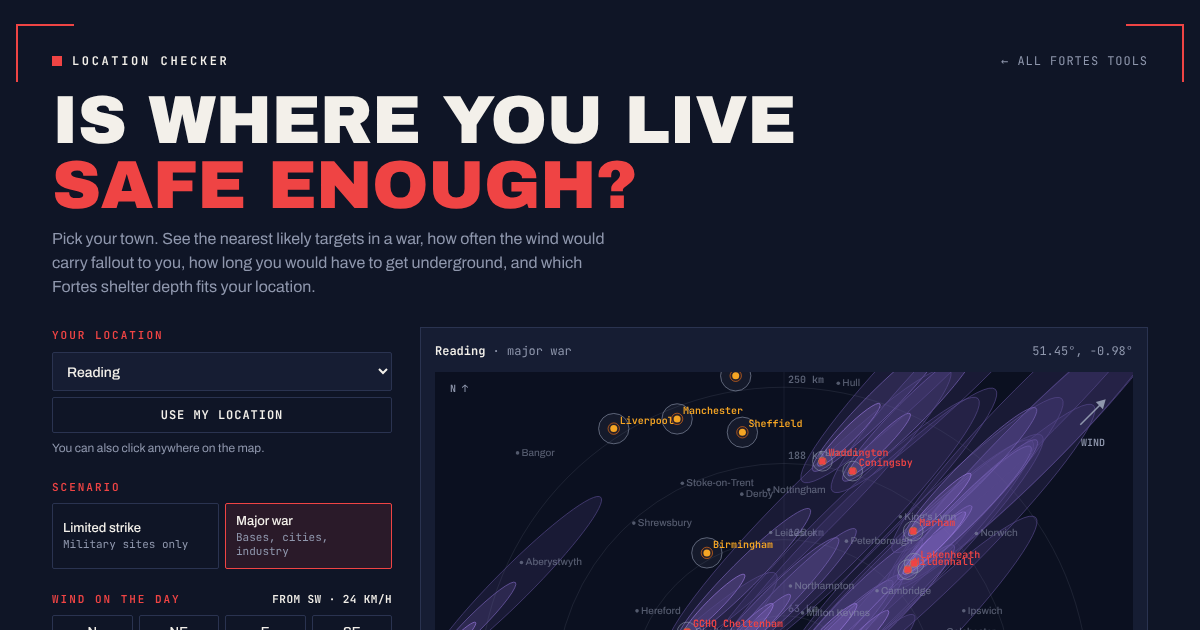
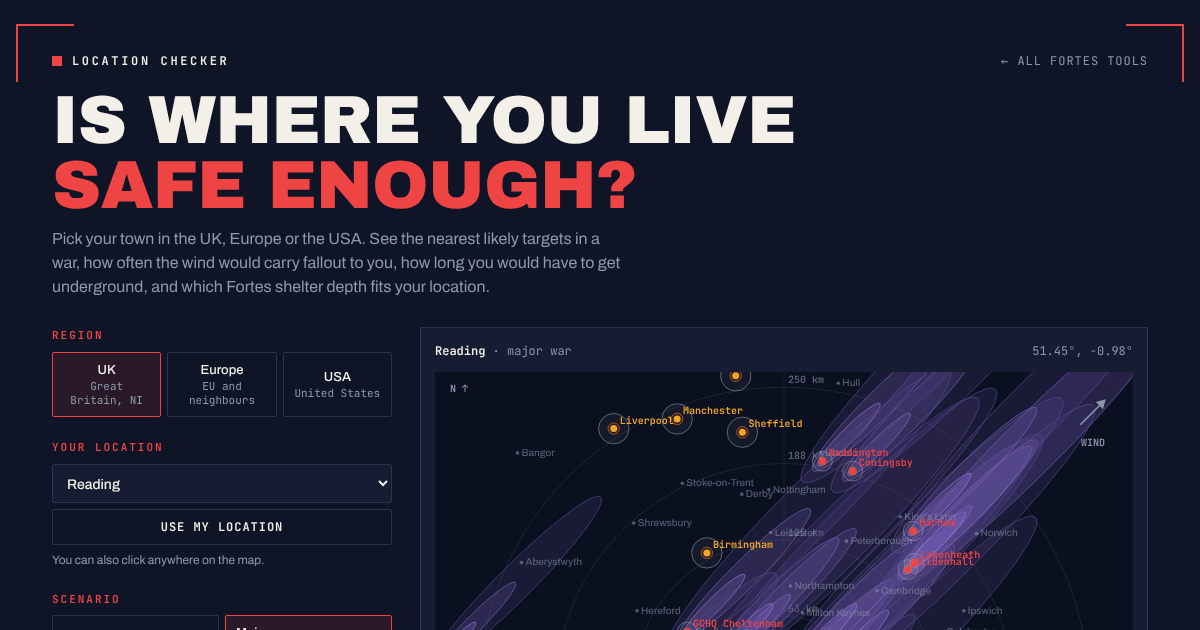
Make the location checker cover the UK, Europe and the USA
- Region picker with town lists for the UK, mainland Europe and Cyprus,
  and the USA; device location picks the region automatically
- Illustrative target sets for Europe and the USA alongside the UK, all
  evaluated together so places near borders see targets on both sides
- Regional wind climatology, phone alert system and distance units
  (miles in the USA)

Claude-Session: https://claude.ai/code/session_01LCX1sg3TJyySkDchaAnJDS

diff --git a/location-checker/index.html b/location-checker/index.html
@@ -4,9 +4,9 @@
 <meta charset="utf-8">
 <meta name="viewport" content="width=device-width,initial-scale=1,viewport-fit=cover">
 <title>Fortes Location Checker</title>
-<meta name="description" content="Pick your town and see the nearest likely targets, how often the wind would carry fallout to you, how long you would have to get underground, and which Fortes shelter depth fits.">
+<meta name="description" content="Pick your town in the UK, Europe or the USA and see the nearest likely targets, how often the wind would carry fallout to you, how long you would have to get underground, and which Fortes shelter depth fits.">
 <meta property="og:title" content="Fortes Location Checker">
-<meta property="og:description" content="Pick your town and see the nearest likely targets, how often the wind would carry fallout to you, how long you would have to get underground, and which Fortes shelter depth fits.">
+<meta property="og:description" content="Pick your town in the UK, Europe or the USA and see the nearest likely targets, how often the wind would carry fallout to you, how long you would have to get underground, and which Fortes shelter depth fits.">
 <meta property="og:type" content="website">
 <meta property="og:image" content="og.png">
 <meta name="twitter:card" content="summary_large_image">
@@ -160,10 +160,14 @@ a.site { text-decoration: none; } a.site:hover { color: var(--cream); }
     <a class="site" href="../index.html">← ALL FORTES TOOLS</a>
   </div>
   <h1>Is where you live <em>safe enough?</em></h1>
-  <p class="lede">Pick your town. See the nearest likely targets in a war, how often the wind would carry fallout to you, how long you would have to get underground, and which Fortes shelter depth fits your location.</p>
+  <p class="lede">Pick your town in the UK, Europe or the USA. See the nearest likely targets in a war, how often the wind would carry fallout to you, how long you would have to get underground, and which Fortes shelter depth fits your location.</p>
 
   <div class="grid">
     <div class="controls">
+      <div>
+        <div class="label">Region</div>
+        <div class="row3" id="region" role="group" aria-label="Region"></div>
+      </div>
       <div>
         <div class="label">Your location</div>
         <select id="town" aria-label="Your town"></select>
@@ -177,11 +181,11 @@ a.site { text-decoration: none; } a.site:hover { color: var(--cream); }
       <div>
         <div class="label"><span>Wind on the day</span><output id="windOut"></output></div>
         <div class="row4" id="winds" role="group" aria-label="Wind direction"></div>
-        <div class="hint">The percentage is how often the UK wind blows from that direction. South-westerlies are the most common.</div>
+        <div class="hint" id="windHint"></div>
       </div>
       <div>
         <div class="label">Map range</div>
-        <div class="row3" id="ranges" role="group" aria-label="Map range"></div>
+        <div class="row4" id="ranges" role="group" aria-label="Map range"></div>
       </div>
       <div>
         <div class="label">Fortes shelter depth</div>
@@ -237,7 +241,7 @@ a.site { text-decoration: none; } a.site:hover { color: var(--cream); }
     <div class="brand">FORTES <small>UNDERGROUND BUNKERS</small></div>
     <div>Book a confidential site assessment → <a href="https://fortesbunkers.com" target="_blank" rel="noopener">fortesbunkers.com</a></div>
   </div>
-  <p class="fine">Educational model only. The target list is an illustrative set of military sites, cities and industry drawn from public Cold War civil-defence exercises and open-source analysis; it is not intelligence and no one knows a real target plan. Military sites and industry are modelled as ground bursts, cities as airbursts, with a steady 24 km/h wind over flat terrain. Wind frequencies are rounded UK averages. Blast, heat and radiation use the same cube-root scaling and fallout plume as the Fortes nuclear simulator (Glasstone &amp; Dolan; OTA, The Effects of Nuclear War). Shelter depths and protection figures are illustrative, not a Fortes guarantee.</p>
+  <p class="fine">Educational model only. The target list is an illustrative set of military sites, cities and industry drawn from public Cold War civil-defence exercises and open-source analysis; it is not intelligence and no one knows a real target plan. Military sites and industry are modelled as ground bursts, cities as airbursts, with a steady 24 km/h wind over flat terrain. Wind frequencies are rounded regional averages for the UK, mainland Europe and the continental USA; Cyprus and the Mediterranean differ. Blast, heat and radiation use the same cube-root scaling and fallout plume as the Fortes nuclear simulator (Glasstone &amp; Dolan; OTA, The Effects of Nuclear War). Shelter depths and protection figures are illustrative, not a Fortes guarantee.</p>
 </div>
 
 <script>
@@ -246,7 +250,12 @@ a.site { text-decoration: none; } a.site:hover { color: var(--cream); }
   const cv = $("map"), ctx = cv.getContext("2d");
 
   // ================= places =================
-  const TOWNS = [
+  const mk = l => l.map(([name, lat, lon]) => ({ name, lat, lon }));
+  // Rounded wind climatology per region: share of the time the wind blows FROM each direction.
+  const W = (n, ne, e, se, so, sw, w, nw) => [["N", 0, n], ["NE", 45, ne], ["E", 90, e], ["SE", 135, se], ["S", 180, so], ["SW", 225, sw], ["W", 270, w], ["NW", 315, nw]];
+  const REGIONS = {
+    uk: { name: "UK", sub: "Great Britain, NI", start: "Reading", alert: "A UK Emergency Alert sounds on phones.", miles: false, ranges: [100, 250, 500, 1000],
+      winds: W(0.06, 0.07, 0.08, 0.08, 0.12, 0.24, 0.22, 0.13), windNote: "South-westerlies are the most common across the UK.", towns: mk([
     ["Aberdeen", 57.150, -2.094], ["Aberystwyth", 52.415, -4.083], ["Bangor", 53.228, -4.129], ["Bath", 51.381, -2.359], ["Belfast", 54.597, -5.930],
     ["Birmingham", 52.486, -1.890], ["Bournemouth", 50.720, -1.880], ["Brighton", 50.822, -0.137], ["Bristol", 51.455, -2.588], ["Cambridge", 52.205, 0.122],
     ["Canterbury", 51.280, 1.079], ["Cardiff", 51.481, -3.179], ["Carlisle", 54.892, -2.933], ["Cheltenham", 51.899, -2.078], ["Colchester", 51.896, 0.892],
@@ -261,7 +270,43 @@ a.site { text-decoration: none; } a.site:hover { color: var(--cream); }
     ["Salisbury", 51.069, -1.795], ["Scarborough", 54.283, -0.400], ["Sheffield", 53.381, -1.470], ["Shrewsbury", 52.707, -2.754], ["Southampton", 50.910, -1.404],
     ["Stirling", 56.117, -3.937], ["Stoke-on-Trent", 53.003, -2.180], ["Swansea", 51.621, -3.944], ["Taunton", 51.015, -3.106], ["Thurso", 58.593, -3.522],
     ["Truro", 50.263, -5.051], ["Windermere", 54.380, -2.907], ["York", 53.960, -1.082],
-  ].map(([name, lat, lon]) => ({ name, lat, lon }));
+  ]) },
+    eu: { name: "Europe", sub: "EU and neighbours", start: "Brussels", alert: "An EU-Alert or national alert sounds on phones in most countries.", miles: false, ranges: [100, 250, 500, 1000],
+      winds: W(0.10, 0.10, 0.10, 0.08, 0.11, 0.19, 0.19, 0.13), windNote: "Westerlies are the most common across mainland Europe.", towns: mk([
+    ["Amsterdam", 52.368, 4.904], ["Antwerp", 51.219, 4.402], ["Athens", 37.984, 23.728], ["Barcelona", 41.385, 2.173], ["Berlin", 52.520, 13.405],
+    ["Bilbao", 43.263, -2.935], ["Bordeaux", 44.838, -0.579], ["Bratislava", 48.149, 17.107], ["Brest", 48.390, -4.486], ["Brussels", 50.850, 4.352],
+    ["Bucharest", 44.427, 26.103], ["Budapest", 47.498, 19.040], ["Cologne", 50.938, 6.960], ["Copenhagen", 55.676, 12.568], ["Cork", 51.899, -8.476],
+    ["Dresden", 51.050, 13.738], ["Dublin", 53.350, -6.260], ["Eindhoven", 51.441, 5.470], ["Famagusta", 35.125, 33.941], ["Florence", 43.770, 11.256],
+    ["Frankfurt", 50.110, 8.682], ["Gdańsk", 54.352, 18.646], ["Geneva", 46.204, 6.143], ["Gothenburg", 57.709, 11.975], ["Hamburg", 53.551, 9.994],
+    ["Helsinki", 60.170, 24.938], ["Kaiserslautern", 49.444, 7.769], ["Kraków", 50.065, 19.945], ["Kyrenia", 35.340, 33.319], ["Liège", 50.633, 5.567],
+    ["Lille", 50.629, 3.057], ["Limassol", 34.707, 33.022], ["Lisbon", 38.722, -9.139], ["Ljubljana", 46.057, 14.506], ["Luxembourg", 49.612, 6.130],
+    ["Lyon", 45.764, 4.836], ["Madrid", 40.417, -3.704], ["Marseille", 43.296, 5.370], ["Milan", 45.464, 9.190], ["Munich", 48.135, 11.582],
+    ["Nantes", 47.218, -1.554], ["Naples", 40.852, 14.268], ["Nice", 43.710, 7.262], ["Nicosia", 35.185, 33.382], ["Oslo", 59.914, 10.752],
+    ["Paris", 48.857, 2.352], ["Porto", 41.158, -8.629], ["Prague", 50.075, 14.438], ["Riga", 56.950, 24.105], ["Rome", 41.903, 12.496],
+    ["Rotterdam", 51.924, 4.478], ["Salzburg", 47.810, 13.055], ["Seville", 37.389, -5.984], ["Sofia", 42.698, 23.322], ["Stockholm", 59.329, 18.069],
+    ["Strasbourg", 48.573, 7.752], ["Stuttgart", 48.776, 9.183], ["Tallinn", 59.437, 24.754], ["Thessaloniki", 40.640, 22.944], ["Toulouse", 43.605, 1.444],
+    ["Turin", 45.070, 7.687], ["Valencia", 39.470, -0.376], ["Venice", 45.441, 12.316], ["Vienna", 48.208, 16.373], ["Vilnius", 54.687, 25.280],
+    ["Warsaw", 52.230, 21.012], ["Zagreb", 45.815, 15.982], ["Zurich", 47.377, 8.540],
+  ]) },
+    us: { name: "USA", sub: "United States", start: "Washington, DC", alert: "A Wireless Emergency Alert sounds on phones.", miles: true, ranges: [161, 402, 805, 1609],
+      winds: W(0.10, 0.07, 0.07, 0.10, 0.17, 0.17, 0.17, 0.15), windNote: "Westerly and southerly winds are the most common across the continental USA.", towns: mk([
+    ["Albuquerque", 35.084, -106.651], ["Amarillo", 35.222, -101.831], ["Anchorage", 61.218, -149.900], ["Asheville", 35.595, -82.551], ["Atlanta", 33.749, -84.388],
+    ["Austin", 30.267, -97.743], ["Billings", 45.783, -108.501], ["Bismarck", 46.808, -100.784], ["Boise", 43.615, -116.202], ["Boston", 42.360, -71.059],
+    ["Bozeman", 45.677, -111.043], ["Buffalo", 42.886, -78.878], ["Burlington, VT", 44.476, -73.212], ["Charleston, SC", 32.776, -79.931], ["Charlotte", 35.227, -80.843],
+    ["Cheyenne", 41.140, -104.820], ["Chicago", 41.878, -87.630], ["Columbus", 39.961, -82.999], ["Dallas", 32.777, -96.797], ["Denver", 39.739, -104.990],
+    ["Des Moines", 41.587, -93.625], ["Detroit", 42.331, -83.046], ["El Paso", 31.762, -106.485], ["Fargo", 46.877, -96.790], ["Great Falls", 47.500, -111.300],
+    ["Honolulu", 21.307, -157.858], ["Houston", 29.760, -95.370], ["Indianapolis", 39.768, -86.158], ["Jackson, WY", 43.480, -110.762], ["Jacksonville", 30.332, -81.656],
+    ["Kansas City", 39.100, -94.579], ["Knoxville", 35.961, -83.921], ["Las Vegas", 36.170, -115.140], ["Little Rock", 34.746, -92.290], ["Los Angeles", 34.052, -118.244],
+    ["Louisville", 38.253, -85.759], ["Memphis", 35.150, -90.049], ["Miami", 25.762, -80.192], ["Milwaukee", 43.039, -87.906], ["Minneapolis", 44.978, -93.265],
+    ["Nashville", 36.163, -86.781], ["New Orleans", 29.951, -90.072], ["New York", 40.713, -74.006], ["Norfolk", 36.851, -76.286], ["Oklahoma City", 35.468, -97.516],
+    ["Omaha", 41.257, -95.935], ["Orlando", 28.538, -81.379], ["Philadelphia", 39.953, -75.165], ["Phoenix", 33.448, -112.074], ["Pittsburgh", 40.441, -79.996],
+    ["Portland, ME", 43.659, -70.257], ["Portland, OR", 45.515, -122.679], ["Rapid City", 44.080, -103.231], ["Salt Lake City", 40.761, -111.891], ["San Antonio", 29.424, -98.494],
+    ["San Diego", 32.716, -117.161], ["San Francisco", 37.775, -122.419], ["Savannah", 32.081, -81.091], ["Seattle", 47.606, -122.332], ["Shreveport", 32.525, -93.750],
+    ["Spokane", 47.659, -117.426], ["St. Louis", 38.627, -90.199], ["Tampa", 27.951, -82.457], ["Tucson", 32.222, -110.975], ["Washington, DC", 38.907, -77.037],
+  ]) },
+  };
+  const ALL_TOWNS = Object.values(REGIONS).flatMap(r => r.towns);
+  const winds = () => REGIONS[S.region].winds;
 
   // Illustrative target set. kind: mil = military, ind = industry (both ground bursts), city = airburst.
   const T = (name, lat, lon, kind, sub) => ({ name, lat, lon, kind, sub, kt: kind === "ind" ? 100 : 300, burst: kind === "city" ? "air" : "ground" });
@@ -281,17 +326,46 @@ a.site { text-decoration: none; } a.site:hover { color: var(--cream); }
     T("Glasgow", 55.864, -4.252, "city", "City"), T("Liverpool", 53.408, -2.991, "city", "City"), T("Leeds", 53.800, -1.549, "city", "City"),
     T("Edinburgh", 55.953, -3.189, "city", "City"), T("Bristol", 51.455, -2.588, "city", "City"), T("Cardiff", 51.481, -3.179, "city", "City"),
     T("Belfast", 54.597, -5.930, "city", "City"), T("Newcastle", 54.978, -1.618, "city", "City"), T("Sheffield", 53.381, -1.470, "city", "City"),
+    // Europe
+    T("Kleine Brogel", 51.168, 5.470, "mil", "Air base"), T("Volkel", 51.657, 5.708, "mil", "Air base"), T("Büchel", 50.174, 7.063, "mil", "Air base"),
+    T("Ramstein", 49.437, 7.600, "mil", "Air base"), T("Aviano", 46.031, 12.597, "mil", "Air base"), T("Ghedi", 45.432, 10.268, "mil", "Air base"),
+    T("Incirlik", 37.002, 35.426, "mil", "Air base"), T("Île Longue", 48.306, -4.513, "mil", "Submarine base"), T("Istres", 43.523, 4.924, "mil", "Air base"),
+    T("Saint-Dizier", 48.636, 4.899, "mil", "Air base"), T("Avord", 47.053, 2.633, "mil", "Air base"), T("Toulon", 43.118, 5.917, "mil", "Naval base"),
+    T("Rota", 36.645, -6.349, "mil", "Naval base"), T("Naples NATO", 40.880, 14.290, "mil", "Joint command"), T("SHAPE, Mons", 50.497, 3.983, "mil", "NATO command"),
+    T("NATO HQ", 50.877, 4.426, "mil", "Headquarters"), T("Brunssum", 50.940, 5.980, "mil", "Joint command"), T("Stuttgart", 48.730, 9.080, "mil", "US command"),
+    T("Redzikowo", 54.479, 17.098, "mil", "Missile defence"), T("Deveselu", 44.087, 24.389, "mil", "Missile defence"), T("Rzeszów", 50.110, 22.020, "mil", "Logistics hub"),
+    T("Souda Bay", 35.533, 24.149, "mil", "Naval base"), T("RAF Akrotiri", 34.590, 32.988, "mil", "Air base"),
+    T("Rotterdam port", 51.900, 4.350, "ind", "Port, refineries"), T("Antwerp port", 51.270, 4.330, "ind", "Port, chemicals"), T("Ludwigshafen", 49.500, 8.430, "ind", "Chemicals"), T("Fos-sur-Mer", 43.430, 4.900, "ind", "Port, refineries"),
+    T("Paris", 48.857, 2.352, "city", "Capital"), T("Berlin", 52.520, 13.405, "city", "Capital"), T("Brussels", 50.850, 4.352, "city", "Capital"), T("Rome", 41.903, 12.496, "city", "Capital"),
+    T("Madrid", 40.417, -3.704, "city", "Capital"), T("Warsaw", 52.230, 21.012, "city", "Capital"), T("Amsterdam", 52.368, 4.904, "city", "Capital"), T("Vienna", 48.208, 16.373, "city", "Capital"),
+    T("Munich", 48.135, 11.582, "city", "City"), T("Hamburg", 53.551, 9.994, "city", "City"), T("Milan", 45.464, 9.190, "city", "City"), T("Barcelona", 41.385, 2.173, "city", "City"),
+    T("Frankfurt", 50.110, 8.682, "city", "City"), T("Stockholm", 59.329, 18.069, "city", "Capital"), T("Copenhagen", 55.676, 12.568, "city", "Capital"), T("Prague", 50.075, 14.438, "city", "Capital"),
+    T("Athens", 37.984, 23.728, "city", "Capital"), T("Bucharest", 44.427, 26.103, "city", "Capital"), T("Helsinki", 60.170, 24.938, "city", "Capital"), T("Oslo", 59.914, 10.752, "city", "Capital"), T("Lisbon", 38.722, -9.139, "city", "Capital"),
+    // United States. ICBM fields spread over thousands of square miles; three area points stand in for each field.
+    T("Malmstrom AFB", 47.506, -111.183, "mil", "ICBM wing"), T("Malmstrom field N", 47.9, -110.9, "mil", "ICBM field (area)"), T("Malmstrom field E", 47.3, -110.0, "mil", "ICBM field (area)"), T("Malmstrom field S", 46.9, -110.8, "mil", "ICBM field (area)"),
+    T("Minot AFB", 48.416, -101.358, "mil", "ICBM wing, bombers"), T("Minot field N", 48.7, -101.8, "mil", "ICBM field (area)"), T("Minot field E", 48.2, -100.7, "mil", "ICBM field (area)"), T("Minot field S", 47.8, -101.6, "mil", "ICBM field (area)"),
+    T("F.E. Warren AFB", 41.133, -104.867, "mil", "ICBM wing"), T("Warren field N", 41.6, -104.5, "mil", "ICBM field (area)"), T("Warren field E", 41.2, -103.7, "mil", "ICBM field (area)"), T("Warren field S", 40.8, -104.2, "mil", "ICBM field (area)"),
+    T("Whiteman AFB", 38.727, -93.548, "mil", "Bomber base"), T("Barksdale AFB", 32.501, -93.663, "mil", "Bomber base"), T("Ellsworth AFB", 44.145, -103.103, "mil", "Bomber base"),
+    T("Dyess AFB", 32.420, -99.855, "mil", "Bomber base"), T("Offutt AFB", 41.118, -95.912, "mil", "Strategic command"), T("Cheyenne Mountain", 38.744, -104.846, "mil", "Command centre"),
+    T("Naval Base Kitsap", 47.727, -122.714, "mil", "Submarine base"), T("Kings Bay", 30.798, -81.515, "mil", "Submarine base"), T("Norfolk Naval Station", 36.946, -76.303, "mil", "Naval base"),
+    T("Naval Base San Diego", 32.684, -117.129, "mil", "Naval base"), T("Pearl Harbor", 21.354, -157.950, "mil", "Naval base"), T("Kirtland AFB", 35.040, -106.609, "mil", "Weapons storage"),
+    T("Pantex", 35.315, -101.560, "mil", "Warhead assembly"), T("Fort Bragg", 35.139, -79.006, "mil", "Army base"), T("Vandenberg", 34.733, -120.568, "mil", "Missile range"),
+    T("The Pentagon", 38.871, -77.056, "mil", "Defence HQ"), T("Raven Rock", 39.734, -77.419, "mil", "Command centre"),
+    T("Houston Ship Channel", 29.730, -95.130, "ind", "Refineries"), T("Port Arthur", 29.885, -93.940, "ind", "Refineries"), T("Baton Rouge", 30.490, -91.180, "ind", "Refinery"),
+    T("New York", 40.713, -74.006, "city", "City"), T("Washington, DC", 38.907, -77.037, "city", "Capital"), T("Los Angeles", 34.052, -118.244, "city", "City"),
+    T("Chicago", 41.878, -87.630, "city", "City"), T("Houston", 29.760, -95.370, "city", "City"), T("San Francisco", 37.775, -122.419, "city", "City"),
+    T("Seattle", 47.606, -122.332, "city", "City"), T("Boston", 42.360, -71.059, "city", "City"), T("Philadelphia", 39.953, -75.165, "city", "City"),
+    T("Atlanta", 33.749, -84.388, "city", "City"), T("Dallas", 32.777, -96.797, "city", "City"), T("Miami", 25.762, -80.192, "city", "City"),
+    T("Denver", 39.739, -104.990, "city", "City"), T("Detroit", 42.331, -83.046, "city", "City"), T("Phoenix", 33.448, -112.074, "city", "City"),
   ];
   const SCEN = {
     limited: { name: "Limited strike", sub: "Military sites only", kinds: ["mil"] },
     major: { name: "Major war", sub: "Bases, cities, industry", kinds: ["mil", "ind", "city"] },
   };
-  // Rounded UK wind climatology: share of the time the wind blows FROM each direction.
-  const WINDS = [["N", 0, 0.06], ["NE", 45, 0.07], ["E", 90, 0.08], ["SE", 135, 0.08], ["S", 180, 0.12], ["SW", 225, 0.24], ["W", 270, 0.22], ["NW", 315, 0.13]];
   const WIND_KMH = 24, TWO_WEEKS = 336;
-  const DEPTHS = [30, 50, 100], RANGES = [100, 250, 500];
+  const DEPTHS = [30, 50, 100];
 
-  const S = { lat: 51.454, lon: -0.978, place: "Reading", scen: "major", wind: 225, range: 250, depth: 50 };
+  const S = { region: "uk", lat: 51.454, lon: -0.978, place: "Reading", scen: "major", wind: 225, range: 250, depth: 50 };
 
   // ================= physics (same calibration as the nuclear simulator) =================
   const TABLES = {
@@ -335,7 +409,8 @@ a.site { text-decoration: none; } a.site:hover { color: var(--cream); }
   const rel = (lat, lon) => ({ x: (lon - S.lon) * 111.32 * Math.cos(rad(S.lat)), y: (lat - S.lat) * 110.57 });
   const downwind = from => { const b = rad(from + 180); return { ux: Math.sin(b), uy: Math.cos(b) }; };
   const compass = deg => ["N", "NE", "E", "SE", "S", "SW", "W", "NW"][Math.round(((deg % 360) + 360) % 360 / 45) % 8];
-  const active = () => TARGETS.filter(t => SCEN[S.scen].kinds.includes(t.kind));
+  // Only targets within 2,000 km can affect you; this also keeps the wind-rose maths fast.
+  const active = () => TARGETS.filter(t => SCEN[S.scen].kinds.includes(t.kind) && Math.hypot(rel(t.lat, t.lon).x, rel(t.lat, t.lon).y) < 2000);
 
   // ================= evaluation =================
   function evaluate(windFrom) {
@@ -369,7 +444,9 @@ a.site { text-decoration: none; } a.site:hover { color: var(--cream); }
   const LVL_C = { fatal: "#ef4444", severe: "#f5a524", injury: "#e8d36a", safe: "#3ecf8e" };
 
   // ================= formatting =================
-  const fmtKm = r => r < 1 ? Math.round(r * 1000) + " m" : (r < 10 ? r.toFixed(1) : Math.round(r).toLocaleString("en-GB")) + " km";
+  const fmtKm = r => REGIONS[S.region].miles
+    ? (m => (m < 10 ? m.toFixed(1) : Math.round(m).toLocaleString("en-US")) + " mi")(r * 0.621371)
+    : r < 1 ? Math.round(r * 1000) + " m" : (r < 10 ? r.toFixed(1) : Math.round(r).toLocaleString("en-GB")) + " km";
   const fmtN = v => v >= 1e6 ? (v / 1e6).toFixed(1) + "M" : v >= 1000 ? Math.round(v).toLocaleString("en-GB") : v >= 10 ? Math.round(v) + "" : v >= 1 ? v.toFixed(1) : v >= 0.01 ? v.toFixed(2) : "<0.01";
   const fmtH = h => h < 1 ? Math.round(h * 60) + " min" : h < 48 ? h.toFixed(1).replace(/\.0$/, "") + " h" : Math.round(h / 24) + " days";
   const fmtS = s => s < 60 ? s.toFixed(1) + " s" : Math.floor(s / 60) + " min " + String(Math.round(s % 60)).padStart(2, "0") + " s";
@@ -385,10 +462,10 @@ a.site { text-decoration: none; } a.site:hover { color: var(--cream); }
 
   function render() {
     const e = evaluate(S.wind);
-    const rose = WINDS.map(([n, deg, p]) => ({ n, deg, p, fo: deg === S.wind ? e.fo : evaluate(deg).fo }));
+    const rose = winds().map(([n, deg, p]) => ({ n, deg, p, fo: deg === S.wind ? e.fo : evaluate(deg).fo }));
     const pAt = d => rose.reduce((s, r) => s + (r.fo >= d ? r.p : 0), 0);
     const p50 = pAt(50), p200 = pAt(200), p600 = pAt(600);
-    const wp = WINDS.find(w => w[1] === S.wind);
+    const wp = winds().find(w => w[1] === S.wind);
 
     $("windOut").textContent = `From ${wp[0]} · ${WIND_KMH} km/h`;
     $("mapTitle").innerHTML = `<b>${S.place}</b> · ${SCEN[S.scen].name.toLowerCase()}`;
@@ -414,7 +491,7 @@ a.site { text-decoration: none; } a.site:hover { color: var(--cream); }
     $("riskPill").className = "pill " + riskCls; $("riskPill").textContent = risk + " risk";
     $("riskBig").textContent = `${S.place}: ${risk.toLowerCase()} risk`;
     const blastLine = e.psi >= 5 ? `You are inside the zone where most houses collapse from ${e.psiT.name}.` : e.psi >= 1 ? `The blast from ${e.psiT.name} would blow in windows and doors here.` : `You are outside the main blast zones of the targets in this scenario.`;
-    const foLine = p50 > 0 ? `In ${pct(p50)} of wind conditions, fallout from a ground burst reaches you with a harmful dose${p600 > 0 ? `, and in ${pct(p600)} it is lethal to anyone outside` : ""}.` : `With UK winds, no modelled fallout plume reaches you in this scenario, but targets outside this list or a change of plan could change that.`;
+    const foLine = p50 > 0 ? `In ${pct(p50)} of wind conditions, fallout from a ground burst reaches you with a harmful dose${p600 > 0 ? `, and in ${pct(p600)} it is lethal to anyone outside` : ""}.` : `With local winds, no modelled fallout plume reaches you in this scenario, but targets outside this list or a change of plan could change that.`;
     $("riskText").textContent = `${blastLine} ${foLine}`;
 
     // recommendation: depth buys margin against a missile that lands near you, not extra fallout protection.
@@ -428,7 +505,7 @@ a.site { text-decoration: none; } a.site:hover { color: var(--cream); }
         : `Your nearest ground-burst target is ${isFinite(dG) ? fmtKm(dG) : "far"} away. At 30 m fallout is cut more than 100,000 times. Choose deeper if you want margin against a direct hit.`;
 
     // wind rose
-    const cx = 150, cy = 150, maxP = Math.max(...WINDS.map(w => w[2]));
+    const cx = 150, cy = 150, maxP = Math.max(...winds().map(w => w[2]));
     let svg = [40, 80, 120].map(r => `<circle cx="${cx}" cy="${cy}" r="${r}" fill="none" stroke="#2a3350"/>`).join("");
     rose.forEach(r => {
       const len = 22 + 100 * r.p / maxP, a0 = rad(r.deg - 19), a1 = rad(r.deg + 19);
@@ -460,7 +537,7 @@ a.site { text-decoration: none; } a.site:hover { color: var(--cream); }
     // clock
     const blastS = e.psiT ? e.psiR / 0.343 : 0;
     const tl = [
-      ["T − 15 min", "Warning", "Submarine-launched missiles can arrive 10 to 15 minutes after launch. A UK Emergency Alert sounds on phones. This is all the time you have to reach a shelter.", true],
+      ["T − 15 min", "Warning", `Submarine-launched missiles can arrive 10 to 15 minutes after launch. ${REGIONS[S.region].alert} This is all the time you have to reach a shelter.`, true],
       ["T + 0", "Flash", e.psiT ? `${e.psiT.name} is hit, ${fmtKm(e.psiR)} from you. The flash arrives at the speed of light.` : "Detonations across the country."],
       ["T + " + fmtS(blastS), "Blast", e.psi >= 1 ? `The blast wave reaches you at ${fmtN(e.psi)} psi.` : `A weak pressure wave of ${fmtN(e.psi)} psi arrives. Windows may crack.`, e.psi >= 1],
       [isFinite(e.ta) ? "T + " + fmtH(e.ta) : "Hours later", "Fallout", isFinite(e.ta) ? `Fallout from ${e.foT.name} starts to land. Anyone not below ground by now takes the full dose.` : `With a ${wp[0]} wind no plume reaches you. A shift in wind could bring one.`, isFinite(e.ta)],
@@ -472,7 +549,7 @@ a.site { text-decoration: none; } a.site:hover { color: var(--cream); }
     $("timeline").innerHTML = tl.map(([t, k, p, hot]) => `<div class="tl${hot ? " hot" : ""}"><div class="t">${t} · ${k}</div><p>${p}</p></div>`).join("");
 
     // targets table
-    const rows = e.list.filter(r => r.R <= Math.max(S.range, e.list[0].R)).slice(0, 14);
+    const rows = e.list.filter(r => r.R <= Math.max(S.range, e.list.length ? e.list[0].R : 0)).slice(0, 14);
     $("targets").innerHTML = `<thead><tr><th>Target</th><th>Type</th><th>Assumed</th><th style="text-align:right">Distance</th><th style="text-align:right">Blast at you</th><th style="text-align:right">Fallout (this wind)</th></tr></thead><tbody>${rows.map(r => `<tr><td>${r.t.name}</td><td>${r.t.sub}</td><td>${r.t.kt} kt ${r.t.burst === "air" ? "airburst" : "ground burst"}</td><td class="n">${fmtKm(r.R)} ${compass(r.bearing)}</td><td class="n">${fmtN(r.psi)} psi</td><td class="n">${r.fo ? fmtDose(r.fo) : "–"}</td></tr>`).join("")}</tbody>`;
 
     draw(e);
@@ -493,7 +570,7 @@ a.site { text-decoration: none; } a.site:hover { color: var(--cream); }
     ctx.font = "600 10px 'JetBrains Mono', monospace";
     [0.25, 0.5, 0.75, 1].forEach(f => {
       ctx.beginPath(); ctx.arc(cx, cy, S.range * f * scale, 0, Math.PI * 2); ctx.strokeStyle = "rgba(143,151,173,0.14)"; ctx.lineWidth = 1; ctx.stroke();
-      ctx.fillStyle = "rgba(143,151,173,0.6)"; ctx.fillText(Math.round(S.range * f) + " km", cx + 4, cy - S.range * f * scale - 4);
+      ctx.fillStyle = "rgba(143,151,173,0.6)"; ctx.fillText(fmtKm(S.range * f), cx + 4, cy - S.range * f * scale - 4);
     });
     ctx.strokeStyle = "rgba(143,151,173,0.1)";
     ctx.beginPath(); ctx.moveTo(cx, 0); ctx.lineTo(cx, h); ctx.moveTo(0, cy); ctx.lineTo(w, cy); ctx.stroke();
@@ -518,7 +595,7 @@ a.site { text-decoration: none; } a.site:hover { color: var(--cream); }
     });
     // towns for orientation
     const labelTowns = S.range <= 250;
-    TOWNS.forEach(t => {
+    ALL_TOWNS.forEach(t => {
       const p = rel(t.lat, t.lon); if (Math.abs(p.x) > S.range * 1.3 || Math.abs(p.y) > S.range * 1.3) return;
       ctx.fillStyle = "rgba(143,151,173,0.55)"; ctx.beginPath(); ctx.arc(X(p.x), Y(p.y), 1.8, 0, Math.PI * 2); ctx.fill();
       if (labelTowns && t.name !== S.place && !TARGETS.some(x => x.name === t.name && SCEN[S.scen].kinds.includes(x.kind))) { ctx.font = "500 10px Archivo, sans-serif"; ctx.fillText(t.name, X(p.x) + 4, Y(p.y) + 3); }
@@ -528,7 +605,7 @@ a.site { text-decoration: none; } a.site:hover { color: var(--cream); }
       const x = X(o.p.x), y = Y(o.p.y);
       ctx.fillStyle = o.t.burst === "ground" ? "#ef4444" : "#f5a524";
       if (o.t.burst === "ground") ctx.fillRect(x - 3, y - 3, 6, 6); else { ctx.beginPath(); ctx.arc(x, y, 3.5, 0, Math.PI * 2); ctx.fill(); }
-      if (S.range <= 250 || o.t.kind === "city") { ctx.font = "600 10px 'JetBrains Mono', monospace"; ctx.fillText(o.t.name.replace(/^(HMNB|RAF|AWE|RNAD) /, ""), x + 6, y - 5); }
+      if (S.range <= 250 || o.t.kind === "city") { ctx.font = "600 10px 'JetBrains Mono', monospace"; ctx.fillText(o.t.name.replace(/^(HMNB|RAF|AWE|RNAD) /, "").replace(/ AFB$/, ""), x + 6, y - 5); }
     });
     // wind arrow
     ctx.save(); ctx.translate(w - 40, 40); ctx.rotate(rad(S.wind + 180));
@@ -565,11 +642,25 @@ a.site { text-decoration: none; } a.site:hover { color: var(--cream); }
     });
   }
   const sel = $("town");
-  sel.innerHTML = `<option value="" hidden>Custom point</option>` + TOWNS.map((t, i) => `<option value="${i}"${t.name === S.place ? " selected" : ""}>${t.name}</option>`).join("");
-  sel.onchange = () => { const t = TOWNS[+sel.value]; Object.assign(S, { lat: t.lat, lon: t.lon, place: t.name }); $("posHint").textContent = "You can also click anywhere on the map."; render(); };
+  const towns = () => REGIONS[S.region].towns;
+  function regionControls() {
+    const R = REGIONS[S.region];
+    sel.innerHTML = `<option value="" hidden>Custom point</option>` + towns().map((t, i) => `<option value="${i}"${t.name === S.place ? " selected" : ""}>${t.name}</option>`).join("");
+    if (!towns().some(t => t.name === S.place)) sel.value = "";
+    $("winds").innerHTML = ""; chipRow($("winds"), winds().map(([n, d, p]) => [d, `${n}<small>${pct(p)}</small>`]), "wind");
+    if (!R.ranges.includes(S.range)) S.range = R.ranges[1];
+    $("ranges").innerHTML = ""; chipRow($("ranges"), R.ranges.map(r => [r, fmtKm(r)]), "range");
+    $("windHint").textContent = `The percentage is how often the wind blows from that direction. ${R.windNote}`;
+    $("region").querySelectorAll(".chip").forEach(c => c.setAttribute("aria-pressed", c.dataset.r === S.region));
+  }
+  Object.entries(REGIONS).forEach(([k, R]) => {
+    const b = document.createElement("button"); b.className = "chip"; b.dataset.r = k; b.innerHTML = `${R.name}<small>${R.sub}</small>`;
+    b.onclick = () => { S.region = k; const t = R.towns.find(x => x.name === R.start); Object.assign(S, { lat: t.lat, lon: t.lon, place: t.name }); regionControls(); render(); };
+    $("region").appendChild(b);
+  });
+  sel.onchange = () => { const t = towns()[+sel.value]; Object.assign(S, { lat: t.lat, lon: t.lon, place: t.name }); $("posHint").textContent = "You can also click anywhere on the map."; render(); };
   chipRow($("scen"), Object.entries(SCEN).map(([k, v]) => [k, `${v.name}<small>${v.sub}</small>`]), "scen");
-  chipRow($("winds"), WINDS.map(([n, d, p]) => [d, `${n}<small>${pct(p)}</small>`]), "wind");
-  chipRow($("ranges"), RANGES.map(r => [r, r + " km"]), "range");
+  regionControls();
   chipRow($("depthChips"), DEPTHS.map(d => [d, d + " m"]), "depth");
 
   $("geo").onclick = () => {
@@ -577,8 +668,11 @@ a.site { text-decoration: none; } a.site:hover { color: var(--cream); }
     $("posHint").textContent = "Finding you…";
     navigator.geolocation.getCurrentPosition(p => {
       Object.assign(S, { lat: p.coords.latitude, lon: p.coords.longitude, place: "Your location" }); sel.value = "";
-      const inUK = S.lat > 49.8 && S.lat < 61 && S.lon > -8.7 && S.lon < 2;
-      $("posHint").textContent = inUK ? "Using your device location. Nothing is sent anywhere." : "You appear to be outside the UK. This model only includes UK targets.";
+      // Rough boxes: the UK without the Republic of Ireland, then mainland Europe, then North America and Hawaii.
+      const inUK = S.lat > 49.8 && S.lat < 61 && S.lon > -8.2 && S.lon < 2 && !(S.lon < -5.4 && S.lat < 54.1);
+      const covered = (S.lon < -30 && S.lon > -170 && S.lat > 18) || (S.lon >= -30 && S.lon < 45 && S.lat > 30 && S.lat < 72);
+      S.region = S.lon < -30 ? "us" : inUK ? "uk" : "eu"; regionControls();
+      $("posHint").textContent = covered ? "Using your device location. Nothing is sent anywhere." : "You appear to be outside the UK, Europe and the USA. Only targets in those regions are modelled.";
       render();
     }, () => { $("posHint").textContent = "Could not get your location. Pick a town or click the map."; }, { timeout: 10000 });
   };

diff --git a/lovable-routes/location-checker.tsx b/lovable-routes/location-checker.tsx
@@ -12,9 +12,9 @@ export const Route = createFileRoute("/location-checker")({
   head: () => ({
     meta: [
       { title: "Fortes Location Checker" },
-      { name: "description", content: "Pick your town and see the nearest likely targets, how often the wind would carry fallout to you, how long you would have to get underground, and which Fortes shelter depth fits." },
+      { name: "description", content: "Pick your town in the UK, Europe or the USA and see the nearest likely targets, how often the wind would carry fallout to you, how long you would have to get underground, and which Fortes shelter depth fits." },
       { property: "og:title", content: "Fortes Location Checker" },
-      { property: "og:description", content: "Pick your town and see the nearest likely targets, how often the wind would carry fallout to you, how long you would have to get underground, and which Fortes shelter depth fits." },
+      { property: "og:description", content: "Pick your town in the UK, Europe or the USA and see the nearest likely targets, how often the wind would carry fallout to you, how long you would have to get underground, and which Fortes shelter depth fits." },
       { property: "og:type", content: "website" },
       { property: "og:image", content: "/location-checker/og.png" },
     ],

diff --git a/README.md b/README.md
@@ -7,7 +7,7 @@ Self-contained simulators and tools for Fortes underground bunkers. The root `in
 | `ww3-simulator` | One family through a third world war, from day -14 to year 3, next to Fortes members sheltering 30, 50 or 100 m down |
 | `nuclear-simulator` | Blast rings, fallout plume and two-week radiation dose for a chosen weapon, wind and position |
 | `blast-simulator` | Blast, heat and radiation at a chosen distance, in the open, in a brick house and in a Fortes shelter |
-| `location-checker` | Pick a UK town and see the nearest likely targets, fallout odds for each wind direction, a risk rating and a recommended shelter depth |
+| `location-checker` | Pick a town in the UK, Europe or the USA (or use your device location) and see the nearest likely targets, fallout odds for each wind direction, a risk rating and a recommended shelter depth |
 | `shelter-walkthrough` | Clickable cutaway of a shelter at 30, 50 or 100 m, with room details, air, water and power systems, and a direct-hit test |
 | `air-power-simulator` | CO₂, oxygen, temperature, battery and fuel hour by hour for a sealed shelter |
 | `threat-simulator` | Pandemic, grid collapse, chemical release and civil unrest, day by day at home and in a Fortes shelter |
